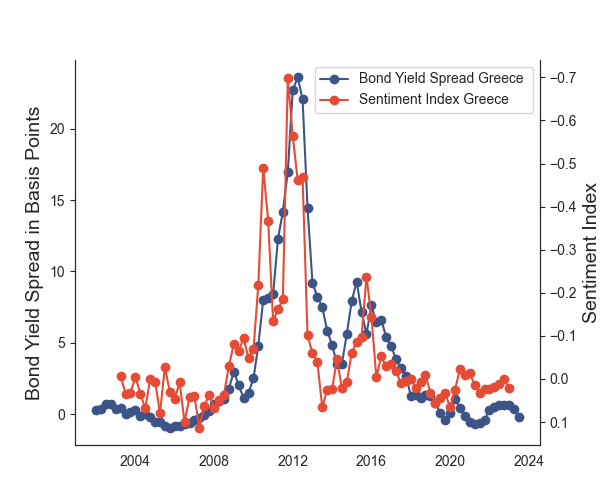
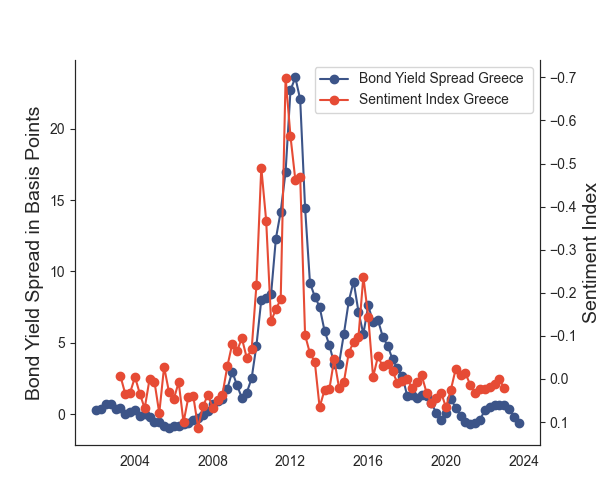
Minor changes.

diff --git a/src/debt_crisis/regression_analysis/task_regression_analysis.py b/src/debt_crisis/regression_analysis/task_regression_analysis.py
@@ -19,6 +19,7 @@ from debt_crisis.regression_analysis.regression_analysis import (
     merge_event_study_coefficients_and_exuberance_index_data,
     run_regression_exuberance_indicator_vs_event_study_coefficients_for_all_countries,
     plot_fitted_values_from_exuberance_unfounded_bond_yield_regression,
+    run_exuberance_index_regression_event_study_data,
 )
 
 from debt_crisis.config import (
@@ -31,6 +32,9 @@ from debt_crisis.config import (
 )
 
 from debt_crisis.utilities import _name_sentiment_index_output_file
+
+
+# -----------------Event Study-----------------#
 
 
 task_create_event_study_dataset_dependencies = {
@@ -71,7 +75,12 @@ def task_create_event_study_dataset(
 
 
 def task_run_bond_yield_event_study(
-    depends_on=BLD / "data" / "event_study_approach" / "event_study_dataset.pkl",
+    depends_on=BLD
+    / "data"
+    / "event_study_approach"
+    / _name_sentiment_index_output_file(
+        "event_study_dataset", CONFIGURATION_SETTINGS, ".pkl"
+    ),
     event_study_countries=EVENT_STUDY_COUNTRIES,
     event_study_time_period=EVENT_STUDY_TIME_PERIOD,
     produces=[
@@ -168,21 +177,37 @@ for country in EVENT_STUDY_COUNTRIES:
         figure.savefig(produces)
 
 
-def task_run_exuberance_index_regression_quarterly(
-    depends_on=BLD / "data" / "step_one_regression_dataset_quarterly_data.pkl",
+# -------------------Sentiment Indicator-------------------#
+
+
+def task_run_exuberance_index_regression_with_event_study_data(
+    depends_on=BLD
+    / "data"
+    / "event_study_approach"
+    / _name_sentiment_index_output_file(
+        "event_study_dataset", CONFIGURATION_SETTINGS, ".pkl"
+    ),
     produces=[
-        BLD / "models" / "exuberance_index_regression_quarterly.txt",
+        BLD
+        / "models"
+        / _name_sentiment_index_output_file(
+            "exuberance_index_regression_quarterly", CONFIGURATION_SETTINGS, ".txt"
+        ),
         BLD
         / "data"
         / "sentiment_exuberance"
-        / "exuberance_index_regression_quarterly.pkl",
+        / _name_sentiment_index_output_file(
+            "exuberance_index_regression_event_study_data",
+            CONFIGURATION_SETTINGS,
+            ".pkl",
+        ),
     ],
 ):
     # Load the data
     data = pd.read_pickle(depends_on).dropna()
 
     # Run the regression
-    model = run_exuberance_index_regression_quarterly_data(data)
+    model = run_exuberance_index_regression_event_study_data(data)
 
     # Get the summary of the model
     model_summary = model.summary()

diff --git a/src/debt_crisis/regression_analysis/regression_analysis.py b/src/debt_crisis/regression_analysis/regression_analysis.py
@@ -116,7 +116,7 @@ def run_event_study_regression(data, event_study_countries, event_study_time_per
     create_data_set_event_study function."""
 
     formula = (
-        "Q('10y_Maturity_Bond_Yield') ~ Q('Public_Debt_as_%_of_GDP')+ GDP_in_Current_Prices_Growth + "
+        "Q('10y_Maturity_Bond_Yield') ~ Q('Public_Debt_as_%_of_GDP')+ GDP_in_Current_Prices_Growth + Moody_Rating_PD + "
         "VIX_Daily_Close_Quarterly_Mean + Q('10y_Maturity_Bond_Yield_US') + C(Country) + C(Date) +"
         + " + ".join(
             [
@@ -140,6 +140,7 @@ def run_event_study_regression(data, event_study_countries, event_study_time_per
         "10y_Maturity_Bond_Yield_US",
         "Country",
         "Date",
+        "Moody_Rating_PD",
     ]
     data_without_us = data.loc[data["Country"] != "usa", :].dropna(
         subset=columns_in_the_model
@@ -627,9 +628,22 @@ def create_dataset_step_one_regression_quarterly_data(
     return merged_data
 
 
+def run_exuberance_index_regression_event_study_data(data):
+    """This function runs the regression of macro fundamentals on the sentiment
+    index."""
+
+    # Define the regression formula
+    formula = "McDonald_Sentiment_Index ~ Q('Public_Debt_as_%_of_GDP')+ GDP_in_Current_Prices_Growth + GDP_in_Current_Prices_Growth_Lead + Current_Account_in_USD + VIX_Daily_Close_Quarterly_Mean + C(Country) + Moody_Rating_PD"
+
+    # Run the regression
+    model = smf.ols(formula, data=data).fit()
+
+    return model
+
+
 def run_exuberance_index_regression_quarterly_data(data):
-    """This function runs the first step regression using the data produced from the
-    first step regression tasks."""
+    """This function runs the regression of macro fundamentals on the sentiment index
+    for quarterly data."""
 
     # Define the regression formula
     formula = "McDonald_Sentiment_Index ~ Q('Public_Debt_as_%_of_GDP')+ GDP_in_Current_Prices_Growth + GDP_in_Current_Prices_Growth_Lead + Current_Account_in_USD + VIX_Daily_Close_Quarterly_Mean + C(Country)"

diff --git a/Input_for_Paper/tables/exuberance_vs_event_study_coefficients_regression_summary.tex b/Input_for_Paper/tables/exuberance_vs_event_study_coefficients_regression_summary.tex
@@ -2,16 +2,16 @@
 \toprule
  & Country & Coefficient & Std Err & t & P>|t| & R_Squared & Correlation \\
 \midrule
-0 & netherlands & -0.564619 & 3.274384 & -0.172435 & 0.864604 & 0.001291 & 0.035932 \\
-1 & austria & 1.823125 & 1.672541 & 1.090033 & 0.286988 & 0.049122 & 0.221635 \\
-2 & italy & -4.588961 & 2.676920 & -1.714269 & 0.099926 & 0.113295 & 0.336593 \\
-3 & finland & -0.065824 & 3.263218 & -0.020172 & 0.984080 & 0.000018 & 0.004206 \\
-4 & greece & -24.101934 & 4.693799 & -5.134845 & 0.000033 & 0.534098 & 0.730820 \\
-5 & portugal & -22.749238 & 12.704178 & -1.790689 & 0.086516 & 0.122357 & 0.349796 \\
-6 & spain & 2.703000 & 4.521192 & 0.597851 & 0.555781 & 0.015302 & 0.123703 \\
-7 & germany & 1.991383 & 1.406495 & 1.415848 & 0.170220 & 0.080170 & 0.283143 \\
-8 & belgium & -1.911666 & 5.549731 & -0.344461 & 0.733629 & 0.005132 & 0.071641 \\
-9 & ireland & -5.814330 & 4.231542 & -1.374045 & 0.182671 & 0.075860 & 0.275427 \\
-10 & france & 4.681947 & 1.680199 & 2.786543 & 0.010489 & 0.252393 & 0.502387 \\
+0 & netherlands & -0.699295 & 3.127806 & -0.223574 & 0.825063 & 0.002169 & 0.046568 \\
+1 & austria & 1.471956 & 1.639678 & 0.897710 & 0.378642 & 0.033852 & 0.183990 \\
+2 & italy & -4.697691 & 2.619410 & -1.793416 & 0.086067 & 0.122685 & 0.350264 \\
+3 & finland & 0.023790 & 3.234214 & 0.007356 & 0.994194 & 0.000002 & 0.001534 \\
+4 & greece & -19.087746 & 3.274987 & -5.828342 & 0.000006 & 0.596276 & 0.772189 \\
+5 & portugal & -24.796274 & 12.353201 & -2.007275 & 0.056612 & 0.149067 & 0.386092 \\
+6 & spain & 1.828895 & 4.780009 & 0.382613 & 0.705520 & 0.006325 & 0.079528 \\
+7 & germany & 2.025953 & 1.393446 & 1.453915 & 0.159480 & 0.084171 & 0.290123 \\
+8 & belgium & -2.765562 & 5.351732 & -0.516760 & 0.610257 & 0.011477 & 0.107132 \\
+9 & ireland & -6.355196 & 4.393856 & -1.446382 & 0.161561 & 0.083374 & 0.288746 \\
+10 & france & 4.339829 & 1.720451 & 2.522494 & 0.019025 & 0.216701 & 0.465511 \\
 \bottomrule
 \end{tabular}

diff --git a/tests/clean_financials/test_clean_financials.py b/tests/clean_financials/test_clean_financials.py
@@ -128,8 +128,7 @@ def test_generate_long_format_rating_data():
             "Date": pd.to_datetime(
                 ["01.10.10", "13.02.15", "2016-06-24"], format="mixed"
             ),
-            "rating": ["AAA", "AA+", "Aa1"],
-            "source": ["FIS", "FIS", "MIS"],
+            "Rating": ["AAA", "AA+", "Aa1"],
             "Country": ["austria", "austria", "sweden"],
         }
     )
@@ -139,23 +138,19 @@ def test_generate_long_format_rating_data():
 
     df_austria = pd.DataFrame(dates, columns=["Date"])
     df_austria["Country"] = "austria"
-    df_austria["Rating_Letter_MIS"] = np.nan
-    df_austria["Rating_Letter_FIS"] = np.nan
-    df_austria["Rating_Letter_FDL"] = np.nan
+    df_austria["Rating_Letter_Moody"] = np.nan
     df_austria.loc[
-        df_austria["Date"] >= pd.to_datetime("2010-01-10"), "Rating_Letter_FIS"
+        df_austria["Date"] >= pd.to_datetime("2010-01-10"), "Rating_Letter_Moody"
     ] = "AAA"
     df_austria.loc[
-        df_austria["Date"] >= pd.to_datetime("2015-02-13"), "Rating_Letter_FIS"
+        df_austria["Date"] >= pd.to_datetime("2015-02-13"), "Rating_Letter_Moody"
     ] = "AA+"
 
     df_sweden = pd.DataFrame(dates, columns=["Date"])
     df_sweden["Country"] = "sweden"
-    df_sweden["Rating_Letter_MIS"] = np.nan
-    df_sweden["Rating_Letter_FIS"] = np.nan
-    df_sweden["Rating_Letter_FDL"] = np.nan
+    df_sweden["Rating_Letter_Moody"] = np.nan
     df_sweden.loc[
-        df_sweden["Date"] >= pd.to_datetime("2016-06-24"), "Rating_Letter_MIS"
+        df_sweden["Date"] >= pd.to_datetime("2016-06-24"), "Rating_Letter_Moody"
     ] = "Aa1"
 
     expected_output = pd.concat([df_austria, df_sweden], ignore_index=True)

diff --git a/src/debt_crisis/clean_financials/task_validate_financials.py b/src/debt_crisis/clean_financials/task_validate_financials.py
@@ -1,9 +1,15 @@
-from debt_crisis.config import BLD, ALL_COUNTRIES_IN_QUARTERLY_MACRO_DATA
+from debt_crisis.config import (
+    BLD,
+    ALL_COUNTRIES_IN_QUARTERLY_MACRO_DATA,
+    CONFIGURATION_SETTINGS,
+)
 from debt_crisis.clean_financials.validate_financials import (
     plot_time_series_variables_from_different_datasources,
     plot_bond_yield_spreads_for_all_countries,
     plot_bond_yield_for_country,
 )
+
+from debt_crisis.utilities import _name_sentiment_index_output_file
 import pandas as pd
 from pytask import task
 
@@ -34,7 +40,12 @@ def task_plot_bond_yields_greece_two_datasources(
 
 
 def task_plot_all_bond_yields(
-    depends_on=BLD / "data" / "event_study_approach" / "event_study_dataset.pkl",
+    depends_on=BLD
+    / "data"
+    / "event_study_approach"
+    / _name_sentiment_index_output_file(
+        "event_study_dataset", CONFIGURATION_SETTINGS, ".pkl"
+    ),
     produces=BLD / "figures" / "all_bond_yields.png",
 ):
     data = pd.read_pickle(depends_on)
@@ -48,7 +59,12 @@ for country in ALL_COUNTRIES_IN_QUARTERLY_MACRO_DATA:
 
     @task(id=country)
     def task_plot_bond_yield_for_given_country(
-        depends_on=BLD / "data" / "event_study_approach" / "event_study_dataset.pkl",
+        depends_on=BLD
+        / "data"
+        / "event_study_approach"
+        / _name_sentiment_index_output_file(
+            "event_study_dataset", CONFIGURATION_SETTINGS, ".pkl"
+        ),
         country=country,
         produces=BLD / "figures" / "raw_bond_yields" / f"bond_yield_{country}.png",
     ):

diff --git a/src/debt_crisis/config.py b/src/debt_crisis/config.py
@@ -10,7 +10,7 @@ EVENT_STUDY_TIME_PERIOD = ["2008Q1", "2014Q1"]
 NO_LONG_RUNNING_TASKS = True
 
 CONFIGURATION_SETTINGS = {
-    "sentiment_index_calculation_method": "negative_and_positive",  # "negative_and_positive" or "negative"
+    "sentiment_index_calculation_method": "negative",  # "negative_and_positive" or "negative"
     "words_in_environment": 20,
 }
 
@@ -220,6 +220,19 @@ EVENT_STUDY_PLOT_COUNTRIES = [
     ["greece", "portugal", "spain", "italy", "ireland"],
 ]
 
+MAPPING_MOODY_RATING_TO_PD = {
+    "Aaa": 0.02,
+    "Aa": 0.03,
+    "A": 0.07,
+    "Baa": 0.18,
+    "Ba": 0.7,
+    "B": 2.0,
+    "Caa": 14.0,
+    "Ca": 17.0,
+    "C": 20.0,
+    "D": ">20.0",
+}
+
 
 FRED_API_KEY = "a6c090d9708fcd388e74204168cc7f43"
 
@@ -233,3 +246,9 @@ OECD_QUARTERLY_GDP_XML_QUERY_LINK = "https://sdmx.oecd.org/public/rest/data/OECD
 OECD_QUARTERLY_DEBT_AS_PERCENT_GDP_QUERY_LINK = "https://sdmx.oecd.org/public/rest/data/OECD.SDD.NAD,DSD_NASEC20@DF_T7PSD_Q,1.0/Q....S13.....FD4.T.PT_B1GQ......?dimensionAtObservation=AllDimensions"
 
 OECD_QUARTERLY_CURRENT_ACCOUNT_QUERY_LINK = "https://sdmx.oecd.org/public/rest/data/OECD.SDD.TPS,DSD_BOP@DF_BOP,1.0/..CA.B..Q.USD_EXC.N?dimensionAtObservation=AllDimensions"
+
+LINK_RATINGS = "http://ratingshistory.info"
+
+LINK_RATINGS_2 = "https://www.wikirating.com/data-analytics/"
+
+LINK_RATINGS_3 = "https://github.com/gvschweinitz/ES_18_The-Joint-Dynamics-of-Sovereign-Ratings-and-Government-Bond-Yields/tree/main"

diff --git a/src/debt_crisis/sentiment_index/task_validate_sentiment_index.py b/src/debt_crisis/sentiment_index/task_validate_sentiment_index.py
@@ -5,7 +5,9 @@ from debt_crisis.sentiment_index.validate_sentiment_index import (
     plot_sentiment_index_and_exuberance_index_for_country,
 )
 
-from debt_crisis.config import BLD, TOP_LEVEL_DIR
+from debt_crisis.config import BLD, TOP_LEVEL_DIR, CONFIGURATION_SETTINGS
+
+from debt_crisis.utilities import _name_sentiment_index_output_file
 
 import pandas as pd
 import numpy as np
@@ -85,7 +87,12 @@ for country in ["portugal", "greece"]:
 
     @task(id=country)
     def task_plot_sentiment_index_and_bond_yield_spread_for_country(
-        depends_on=BLD / "data" / "event_study_approach" / "event_study_dataset.pkl",
+        depends_on=BLD
+        / "data"
+        / "event_study_approach"
+        / _name_sentiment_index_output_file(
+            "event_study_dataset", CONFIGURATION_SETTINGS, ".pkl"
+        ),
         country=country,
         produces=[
             BLD

diff --git a/src/debt_crisis/clean_financials/clean_international_financials.py b/src/debt_crisis/clean_financials/clean_international_financials.py
@@ -1,4 +1,4 @@
-from debt_crisis.config import FRED_API_KEY
+from debt_crisis.config import FRED_API_KEY, MAPPING_MOODY_RATING_TO_PD
 
 from fredapi import Fred
 import pandas as pd
@@ -17,5 +17,14 @@ def clean_quarterly_macroeconomic_variables(raw_data):
     for column in raw_data.columns:
         if column not in cleaned_data.columns:
             cleaned_data[column] = raw_data[column]
+
+    cleaned_data["Moody_Rating_Strip_Number"] = cleaned_data[
+        "Rating_Moody_Last_Quarter_Day"
+    ].str.replace(r"\d+", "", regex=True)
+    cleaned_data["Moody_Rating_PD"] = (
+        cleaned_data["Moody_Rating_Strip_Number"]
+        .map(MAPPING_MOODY_RATING_TO_PD)
+        .astype(float)
+    )
 
     return cleaned_data
